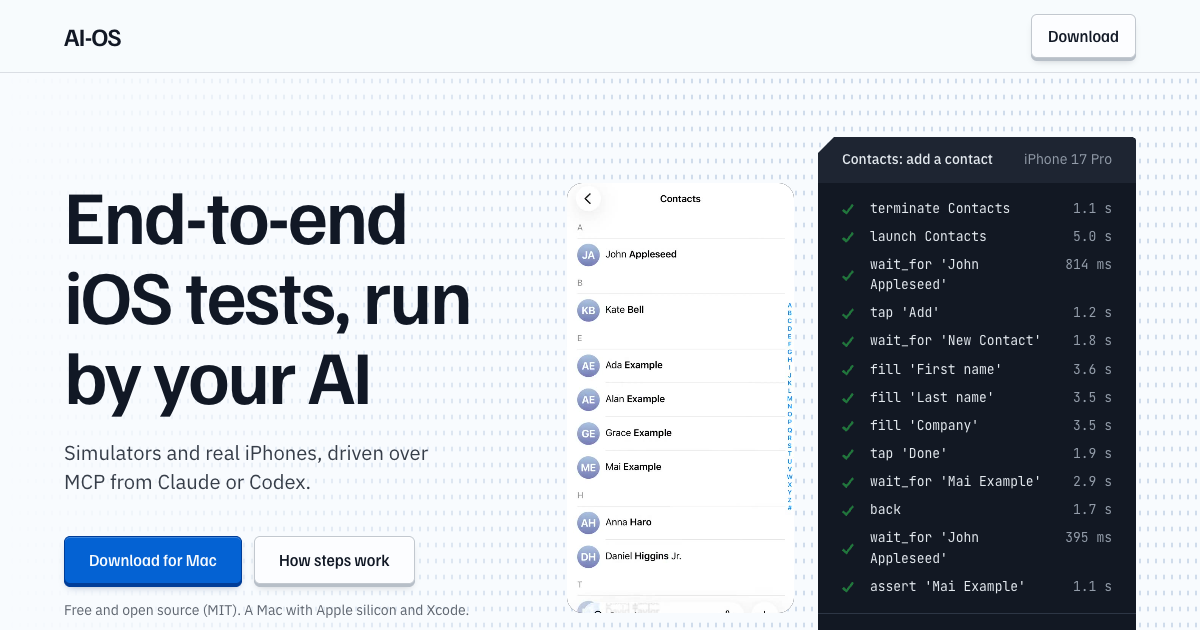
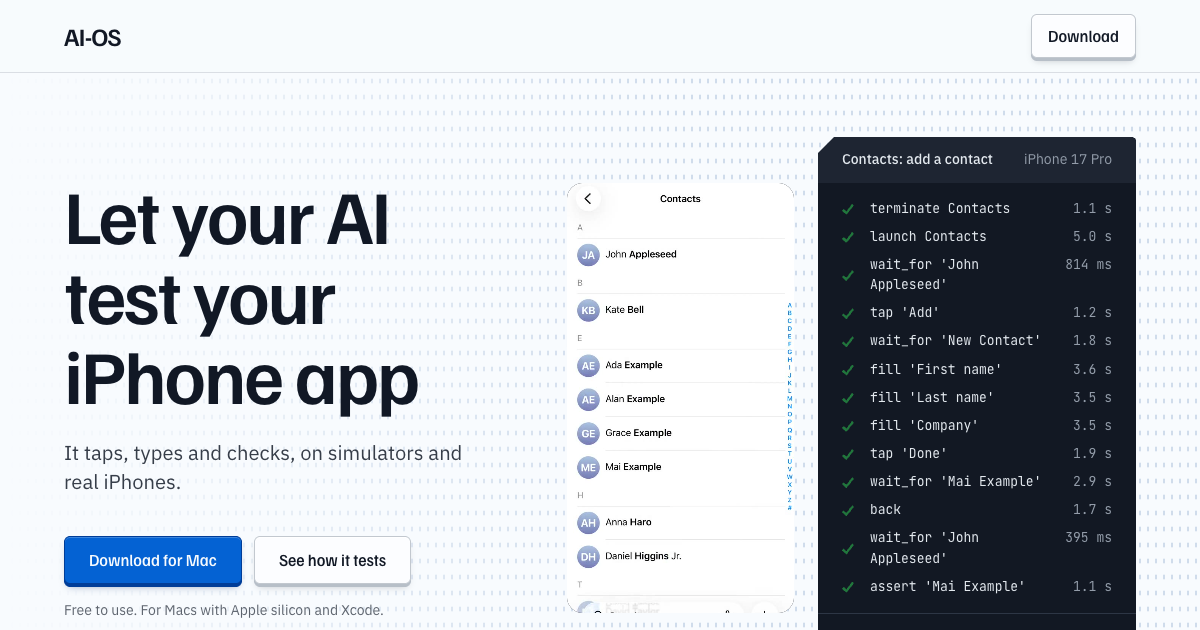
Landing page for 0.17.0: benefit-led copy, free-to-use licence, Safari fixes
- Copy says what AI-OS does for you (headline: Let your AI test your iPhone app); every claim from the README.
- Licence: free to use, all rights reserved (0.17.0); og.png and og:title follow the new hero.
- Smooth in-page scrolling; Play resumes the demo; the phone run log shows its last step without scripts.
- The sticky nav blurs what scrolls under it (seen in iOS Safari).
- wrangler.jsonc names the real site, aiosqa.dpdns.org.

diff --git a/site/index.html b/site/index.html
@@ -4,14 +4,14 @@
 <meta charset="utf-8">
 <meta name="viewport" content="width=device-width, initial-scale=1">
 <title>AI-OS: end-to-end iOS tests your AI agent runs</title>
-<meta name="description" content="AI-OS lets AI agents and QA run end-to-end tests on iOS simulators and real iPhones, from Claude Code, Claude Desktop, Codex or any MCP client. Free and open source.">
+<meta name="description" content="AI-OS lets AI agents and QA run end-to-end tests on iOS simulators and real iPhones, from Claude Code, Claude Desktop, Codex or any MCP client. Free to use.">
 <link rel="canonical" href="https://aiosqa.dpdns.org/">
 <link rel="icon" href="/favicon.svg" type="image/svg+xml">
 <meta name="theme-color" content="#f7f9fc">
 <meta property="og:type" content="website">
 <meta property="og:url" content="https://aiosqa.dpdns.org/">
-<meta property="og:title" content="AI-OS: end-to-end iOS tests, run by your AI">
-<meta property="og:description" content="Simulators and real iPhones, driven over MCP from Claude or Codex. Free and open source.">
+<meta property="og:title" content="AI-OS: let your AI test your iPhone app">
+<meta property="og:description" content="Simulators and real iPhones, driven over MCP from Claude or Codex. Free to use.">
 <meta property="og:image" content="https://aiosqa.dpdns.org/og.png">
 <meta property="og:image:width" content="1200">
 <meta property="og:image:height" content="630">
@@ -26,14 +26,16 @@
  * axes: light/grotesk-sans/cool · posture: restrained · contrast: pass · fold: pass · v2.0.0 */
 /* Hallmark · pre-emit critique: P4 H4 E4 S5 R4 V4 · weakest: P, a tool page argues little; it argues that a test should ask instead of hang, and shows that exchange */
 /* Hallmark · dismissed 58 · the window holds the five-step listing, whose JSON lines count as words but read as one code object */
+/* Hallmark · dismissed 19 · the owner's licence line: from 0.17.0 the LICENSE itself says all rights reserved, beside free to use */
 /* Hallmark · answered F25 · on a phone the run log shows only the step running now; the recorded video carries the whole run */
 @import url("./tokens.css");
 @import url("./base.css");
 
 /* chrome */
+html { scroll-behavior: smooth; }  /* base.css turns it off under reduced motion */
 .skip { position: absolute; left: var(--space-md); top: calc(-1 * var(--space-3xl)); z-index: var(--z-toast); padding: var(--space-xs) var(--space-md); background: var(--color-ink); color: var(--color-paper); }
 .skip:focus-visible { top: var(--space-md); }
-.nav { position: sticky; top: 0; z-index: var(--z-sticky-nav); background: color-mix(in oklab, var(--color-paper) 92%, transparent); border-bottom: var(--rule-hair) solid var(--color-rule); }
+.nav { position: sticky; top: 0; z-index: var(--z-sticky-nav); background: color-mix(in oklab, var(--color-paper) 92%, transparent); -webkit-backdrop-filter: blur(12px); backdrop-filter: blur(12px); border-bottom: var(--rule-hair) solid var(--color-rule); }
 .nav .container { display: flex; align-items: center; justify-content: space-between; min-height: 72px; }
 .wordmark { font: 600 var(--text-xl)/1 var(--font-display); letter-spacing: var(--tracking-display); text-decoration: none; color: var(--color-ink); }
 
@@ -116,6 +118,7 @@ code, pre, kbd { font-family: var(--font-outlier); }
 /* the ruler: measured seconds */
 .measure { display: grid; grid-template-columns: minmax(0, 5fr) minmax(0, 7fr); gap: var(--space-3xl); align-items: center; }
 .big { font: 600 clamp(4rem, 8vw, 7.5rem)/0.95 var(--font-display); letter-spacing: var(--tracking-display); font-variant-numeric: tabular-nums; }
+.measure h2 + .big { margin-top: var(--space-lg); }
 .big small { font-size: 0.4em; font-weight: 500; color: var(--color-ink-2); }
 .measure .cond { margin-top: var(--space-md); color: var(--color-ink-2); max-width: 44ch; }
 .ruler { margin: 0; }
@@ -217,13 +220,13 @@ html:not(.js) .demo__pause { display: none; }
   <section class="hero" aria-labelledby="hero-head">
     <div class="container">
       <div>
-        <h1 id="hero-head">End-to-end iOS tests, run by your AI</h1>
-        <p class="lead">Simulators and real iPhones, driven over MCP from Claude or Codex.</p>
+        <h1 id="hero-head">Let your AI test your iPhone app</h1>
+        <p class="lead">It taps, types and checks, on simulators and real iPhones.</p>
         <div class="actions">
           <a class="key key--primary" href="/download">Download for Mac</a>
-          <a class="key" href="#run">How steps work</a>
+          <a class="key" href="#run">See how it tests</a>
         </div>
-        <p class="terms">Free and open source (MIT). A Mac with Apple silicon and Xcode.</p>
+        <p class="terms">Free to use. For Macs with Apple silicon and Xcode.</p>
       </div>
       <figure class="demo" data-loop data-demo data-total="28616" aria-label="A real AI-OS run, recorded: an iPhone 17 Pro simulator adds a contact in Contacts while the steps pass">
         <div class="demo__phone">
@@ -247,7 +250,7 @@ html:not(.js) .demo__pause { display: none; }
             <li data-state="ok"><span class="mark" aria-hidden="true"></span><code>wait_for 'Mai Example'</code><span class="ms">2.9 s</span></li>
             <li data-state="ok"><span class="mark" aria-hidden="true"></span><code>back</code><span class="ms">1.7 s</span></li>
             <li data-state="ok"><span class="mark" aria-hidden="true"></span><code>wait_for 'John Appleseed'</code><span class="ms">395 ms</span></li>
-            <li data-state="ok"><span class="mark" aria-hidden="true"></span><code>assert 'Mai Example'</code><span class="ms">1.1 s</span></li>
+            <li data-state="ok" class="is-last"><span class="mark" aria-hidden="true"></span><code>assert 'Mai Example'</code><span class="ms">1.1 s</span></li>
           </ol>
           <div class="demo__foot"><span class="demo__status" role="status">Passed, 13 of 13, in 28.6 s</span><button class="demo__pause" type="button" data-loop-toggle>Pause</button></div>
         </figcaption>
@@ -258,7 +261,7 @@ html:not(.js) .demo__pause { display: none; }
   <section class="section" id="run" aria-labelledby="run-head">
     <div class="container">
       <div class="headblock">
-        <h2 id="run-head">A test is a list of steps</h2>
+        <h2 id="run-head">Every step looks before it acts</h2>
       </div>
       <div class="mapping" aria-label="Steps an agent sends, and what AI-OS does with each">
         <div class="mapping__head"><span>steps</span><span>AI-OS</span></div>
@@ -266,8 +269,8 @@ html:not(.js) .demo__pause { display: none; }
           <li><code>{"tap": "Log in"}</code><p>Taps only an enabled target.</p></li>
           <li><code>{"fill": {"field": "Email Address", "text": "qa@example.com"}}</code><p>Finds the box by label, types, checks.</p></li>
           <li><code>{"type_secret": {"field": "Password", "key": "APP_PASSWORD"}}</code><p>Types a saved password; replies show [secret].</p></li>
-          <li><code>{"wait_for": "Home", "timeout": 8}</code><p>Waits by looking, never by sleeping.</p></li>
-          <li><code>{"assert": "Welcome"}</code><p>Exact label or whole words, with case.</p></li>
+          <li><code>{"wait_for": "Home", "timeout": 8}</code><p>Waits for the screen, never for a timer.</p></li>
+          <li><code>{"assert": "Welcome"}</code><p>Exact words, never a near miss.</p></li>
         </ol>
       </div>
     </div>
@@ -277,16 +280,16 @@ html:not(.js) .demo__pause { display: none; }
     <div class="container">
       <div class="headblock">
         <h2 id="ask-head">Questions, not hangs</h2>
-        <p class="lead">A step that cannot go on asks your agent.</p>
+        <p class="lead">A stuck step asks your agent.</p>
       </div>
       <div class="pair">
         <div class="pane">
           <h3>The first time</h3>
-          <p>“Save Password?” covers the screen. The run returns a question; the agent answers and goes on.</p>
+          <p>“Save Password?” appears. The agent answers; the run goes on.</p>
         </div>
         <div class="pane pane--wash">
           <h3>Every time after</h3>
-          <p>A rule taps through it.</p>
+          <p>One rule, and it never asks again.</p>
 <pre><code>{"when": "Save Password?", "tap": "Not Now"}</code></pre>
         </div>
       </div>
@@ -296,8 +299,8 @@ html:not(.js) .demo__pause { display: none; }
   <section class="section" aria-labelledby="app-head">
     <div class="container">
       <div class="headblock">
-        <h2 id="app-head">Setup fetches iOS, the driver, simslim</h2>
-        <p class="lead">No Terminal needed.</p>
+        <h2 id="app-head">Set up in one window</h2>
+        <p class="lead">iOS, the simulator driver and simslim, installed for you. No Terminal.</p>
       </div>
       <div class="switch" data-switch>
         <div class="tabs" role="tablist" aria-label="Screens of the AI-OS app">
@@ -312,7 +315,7 @@ html:not(.js) .demo__pause { display: none; }
               <img src="images/setup-top.png" width="1296" height="770" loading="lazy" alt="The AI-OS setup window: four steps done, the simulator driver building">
             </picture>
           </figure>
-          <div><h3>Setup</h3><p>Installs what the Mac is missing, step by step.</p></div>
+          <div><h3>Setup</h3><p>Installs only what your Mac is missing, and shows each step.</p></div>
         </div>
         <div class="panel" role="tabpanel" id="p-check" aria-labelledby="t-check">
           <figure class="shot" style="aspect-ratio: 1520 / 1124; --m: 1060 / 620" data-m data-slot="check" data-kind="product" data-alt="The Setup check card in the AI-OS app">
@@ -321,7 +324,7 @@ html:not(.js) .demo__pause { display: none; }
               <img src="images/dash-check-home-desktop-part.png" width="1520" height="1124" loading="lazy" alt="Setup check: Xcode, iOS versions, disk, memory, simslim and the AI connection pass; the simulator driver is missing, with its fix">
             </picture>
           </figure>
-          <div><h3>Setup check</h3><p>What is ready, and how to fix the rest.</p></div>
+          <div><h3>Setup check</h3><p>See what is ready, and how to fix the rest.</p></div>
         </div>
         <div class="panel" role="tabpanel" id="p-logins" aria-labelledby="t-logins">
           <figure class="shot" style="aspect-ratio: 1520 / 1309; --m: 1060 / 470" data-m data-slot="logins" data-kind="product" data-alt="The Logins card in the AI-OS app">
@@ -330,7 +333,7 @@ html:not(.js) .demo__pause { display: none; }
               <img src="images/dash-logins-home-desktop-part.png" width="1520" height="1309" loading="lazy" alt="Logins: a saved password named APP_PASSWORD, two apps that may receive it, and the builds folder">
             </picture>
           </figure>
-          <div><h3>Logins</h3><p>Passwords by name. The AI never sees them.</p></div>
+          <div><h3>Logins</h3><p>Save test passwords by name. Your AI types them without seeing them.</p></div>
         </div>
       </div>
     </div>
@@ -339,9 +342,9 @@ html:not(.js) .demo__pause { display: none; }
   <section class="section--l" aria-labelledby="speed-head">
     <div class="container measure">
       <div>
-        <h2 id="speed-head" class="visually-hidden">Measured speed</h2>
+        <h2 id="speed-head">Three simulators, 30 steps, under a minute</h2>
         <p class="big">43 to 45 <small>s</small></p>
-        <p class="cond">A 30-step flow on three iOS 27 simulators at once, on an Apple M4 with 16 GB.</p>
+        <p class="cond">All three passed at once. iOS 27, on an Apple M4 with 16 GB.</p>
       </div>
       <figure class="ruler" aria-label="Chart: measured time per action, in seconds">
         <ul>
@@ -358,7 +361,7 @@ html:not(.js) .demo__pause { display: none; }
   <section class="section" aria-labelledby="tools-head">
     <div class="container">
       <div class="headblock">
-        <h2 id="tools-head">The tools your agent calls</h2>
+        <h2 id="tools-head">Works with Claude, Codex and any MCP client</h2>
       </div>
       <table class="api">
         <thead><tr><th scope="col">Tool</th><th scope="col">What it does</th></tr></thead>
@@ -366,8 +369,8 @@ html:not(.js) .demo__pause { display: none; }
           <tr><th scope="row">aios_start</th><td>Turns devices on; installs an app clean.</td></tr>
           <tr><th scope="row">aios_screen</th><td>The screen as text; an image on request.</td></tr>
           <tr><th scope="row">aios_act</th><td>Runs steps; returns results or a question.</td></tr>
-          <tr><th scope="row">aios_run</th><td>Several devices at once, in the background.</td></tr>
-          <tr><th scope="row">aios_capture</th><td>Screenshot, video start and stop.</td></tr>
+          <tr><th scope="row">aios_run</th><td>Several devices at once.</td></tr>
+          <tr><th scope="row">aios_capture</th><td>Screenshots and screen video.</td></tr>
         </tbody>
       </table>
     </div>
@@ -375,12 +378,12 @@ html:not(.js) .demo__pause { display: none; }
 
   <section class="section" id="needs" aria-labelledby="needs-head">
     <div class="container rows">
-      <h2 id="needs-head">Xcode, disk and an AI agent</h2>
+      <h2 id="needs-head">What your Mac needs</h2>
       <dl>
         <div class="row"><dt>Apple silicon</dt><dd>Intel Macs are not tested.</dd></div>
         <div class="row"><dt>Xcode</dt><dd>Free. Setup opens the App Store if missing.</dd></div>
-        <div class="row"><dt>Disk</dt><dd>About 7.5 GB per iOS version, 1 to 2 GB per simulator.</dd></div>
-        <div class="row"><dt>An AI agent</dt><dd>Claude Code, Claude Desktop, Codex or any MCP client.</dd></div>
+        <div class="row"><dt>Disk</dt><dd>About 7.5 GB per iOS version, plus 1 to 2 GB a simulator.</dd></div>
+        <div class="row"><dt>An AI agent</dt><dd>Optional: the dashboard works without one.</dd></div>
         <div class="row"><dt>A real iPhone</dt><dd>Optional. A free Apple ID signs for 7 days.</dd></div>
       </dl>
     </div>
@@ -389,8 +392,8 @@ html:not(.js) .demo__pause { display: none; }
   <section class="close" id="download" aria-labelledby="dl-head">
     <div class="container">
       <div>
-        <h2 id="dl-head">Free for Apple silicon Macs</h2>
-        <p class="lead">Setup ends with a first request to copy into Claude Code.</p>
+        <h2 id="dl-head">Give your AI an iPhone</h2>
+        <p class="lead">Free to use. Setup ends with a first test to paste into your agent.</p>
         <div class="actions">
           <a class="key key--primary" href="/download">Download for Mac</a>
         </div>
@@ -417,7 +420,7 @@ html:not(.js) .demo__pause { display: none; }
         <li><a href="/releases">All releases</a></li>
       </ul>
     </nav>
-    <p class="legal">MIT licence, by Bruce Vu. Uses <a href="https://github.com/appium/WebDriverAgent">WebDriverAgent</a> and <a href="https://github.com/MobAI-App/simslim">simslim</a>.</p>
+    <p class="legal">© 2026 Bruce Vu. Free to use, all rights reserved. Uses <a href="https://github.com/appium/WebDriverAgent">WebDriverAgent</a> and <a href="https://github.com/MobAI-App/simslim">simslim</a>.</p>
   </div>
 </footer>
 <script>
@@ -444,7 +447,7 @@ document.querySelectorAll('[data-demo]').forEach((fig) => {
   if (reduce.matches) return;  // the poster and every step passed, as the page loads
   video.addEventListener('loadedmetadata', paint);
   video.addEventListener('seeked', paint);
-  btn.addEventListener('click', () => { s.held = !s.held; sync(); });
+  btn.addEventListener('click', () => { s.held = !s.held; if (!s.held) s.hover = s.focus = false; sync(); });  // Play plays now, though the pointer and focus are on the figure
   [['pointerenter', 'hover', true], ['pointerleave', 'hover', false], ['focusin', 'focus', true], ['focusout', 'focus', false]].forEach(([e, k, v]) => fig.addEventListener(e, () => { s[k] = v; sync(); }));
   new IntersectionObserver(([e]) => { s.seen = e.isIntersecting; sync(); }).observe(fig);
 });

diff --git a/README.md b/README.md
@@ -1,7 +1,7 @@
 # AI-OS
 
 End-to-end app testing on iOS simulators and real iPhones, for AI agents (through MCP: Claude Code, Claude Desktop,
-Codex, any MCP client) and for QA (a local dashboard and a CLI). Free and open source (MIT).
+Codex, any MCP client) and for QA (a local dashboard and a CLI). Free to use.
 
 ## Download
 **[Download the latest AI-OS for Mac](https://aiosqa.dpdns.org/download)** (or from
@@ -30,4 +30,5 @@ Edit `site/`, then push to `main`: Cloudflare deploys it (Workers Builds, connec
 A new release needs no change here: the download buttons point to `/download`.
 
 ## Licence
-MIT, copyright Bruce Vu.
+Proprietary, copyright Bruce Vu: free to use from these releases; no copying, modifying or reverse engineering
+(see the LICENSE file in each release). Versions up to 0.16.1 were released under MIT.
